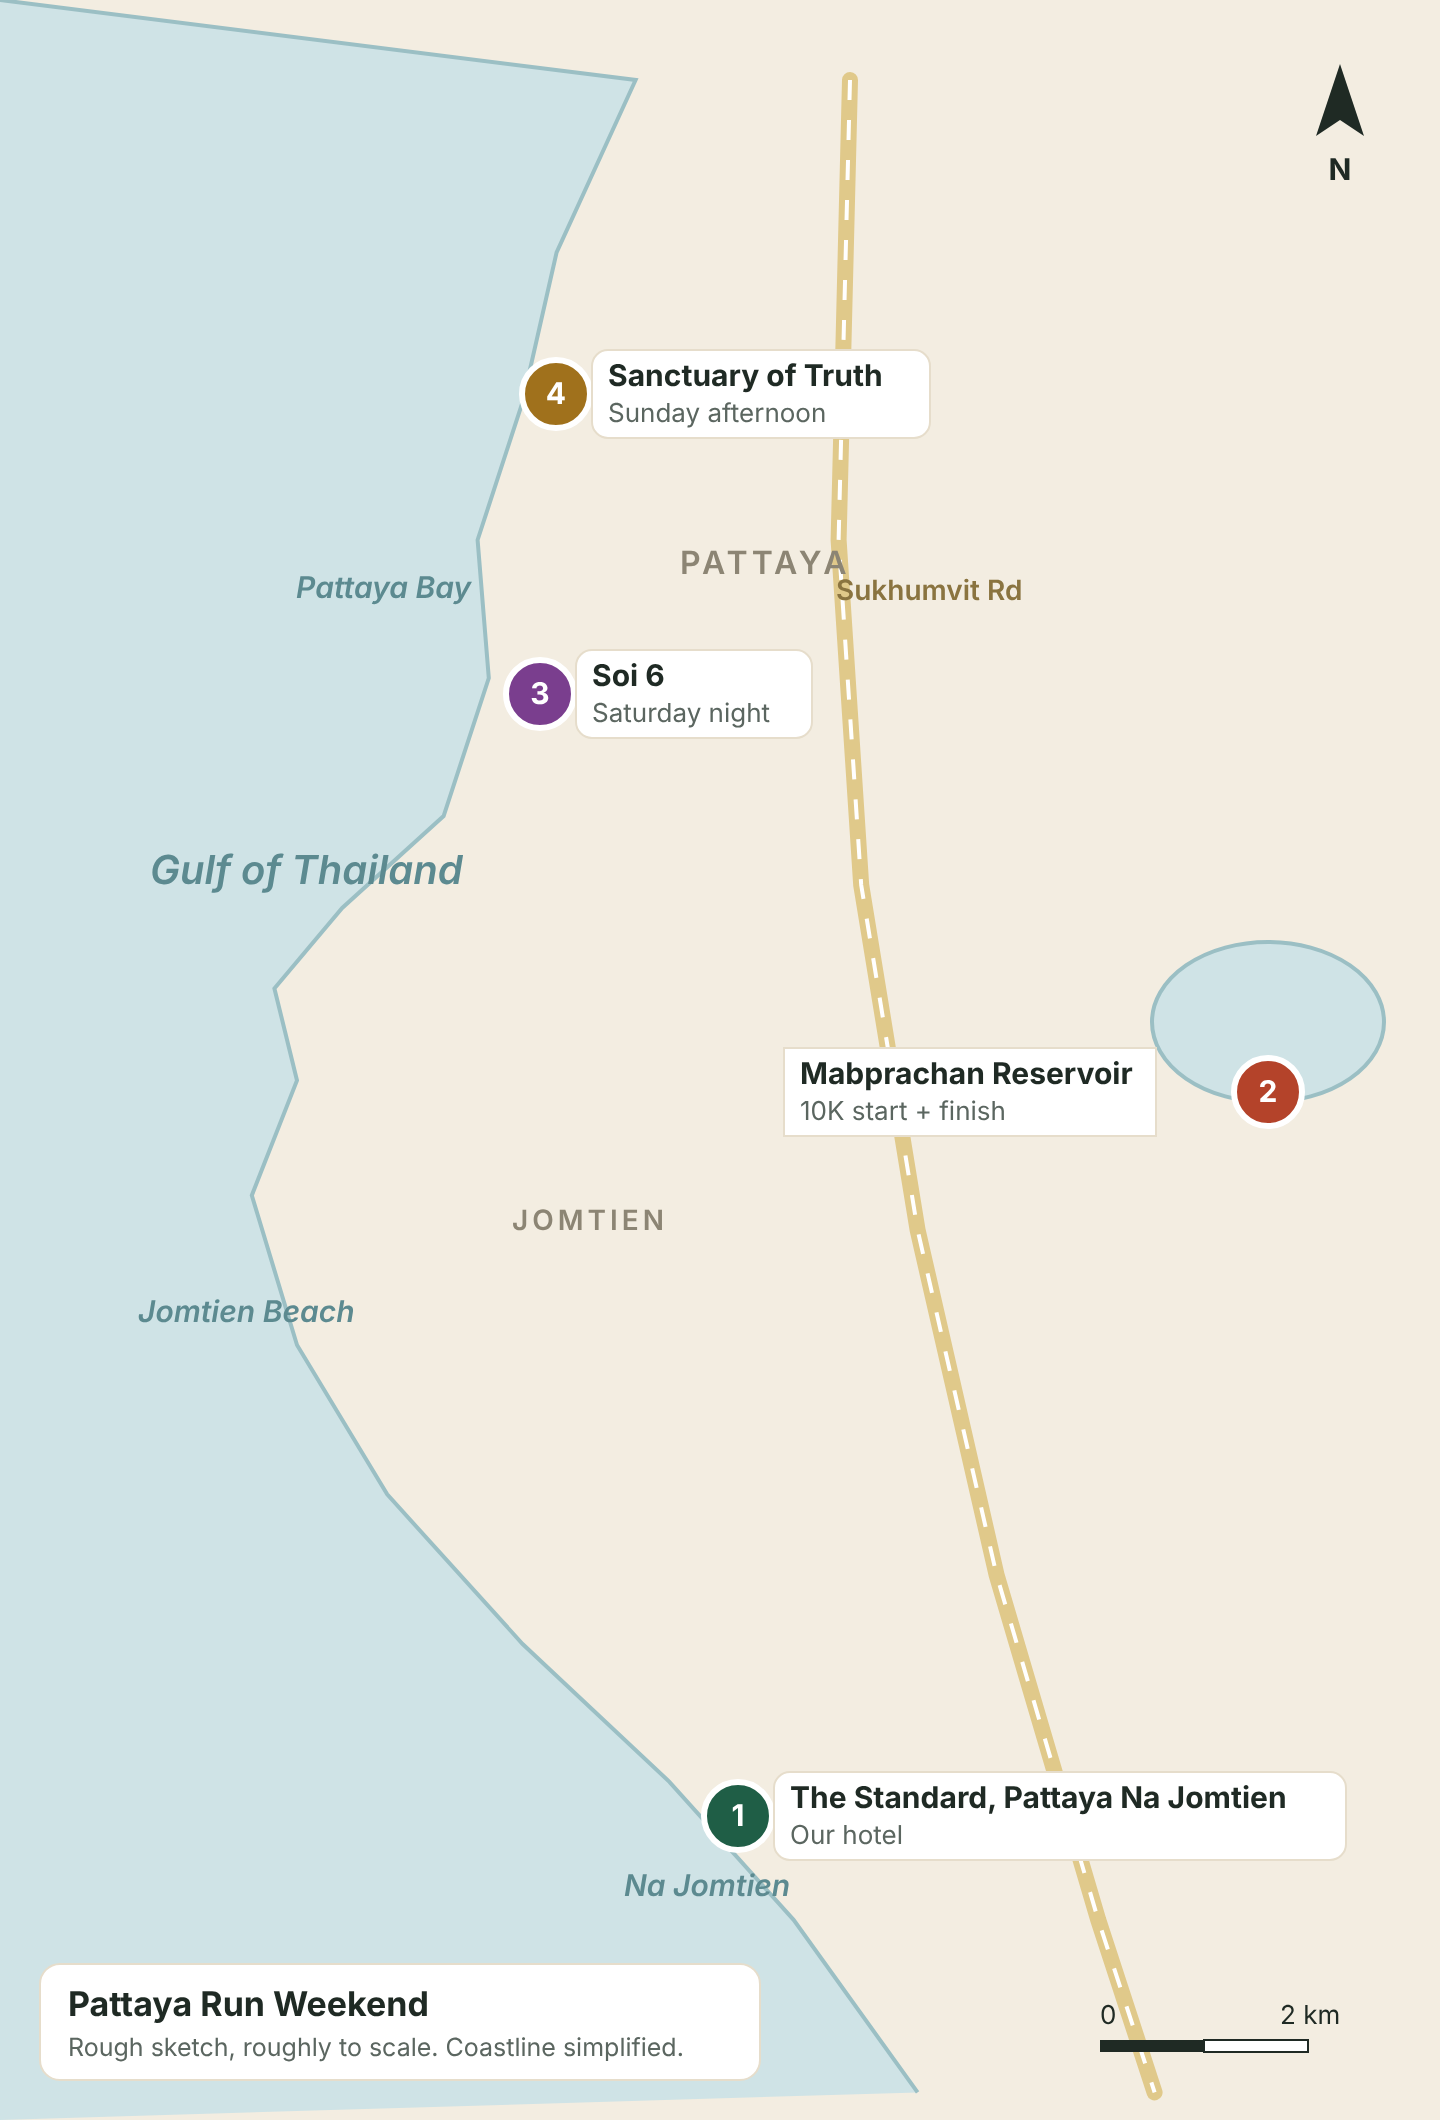
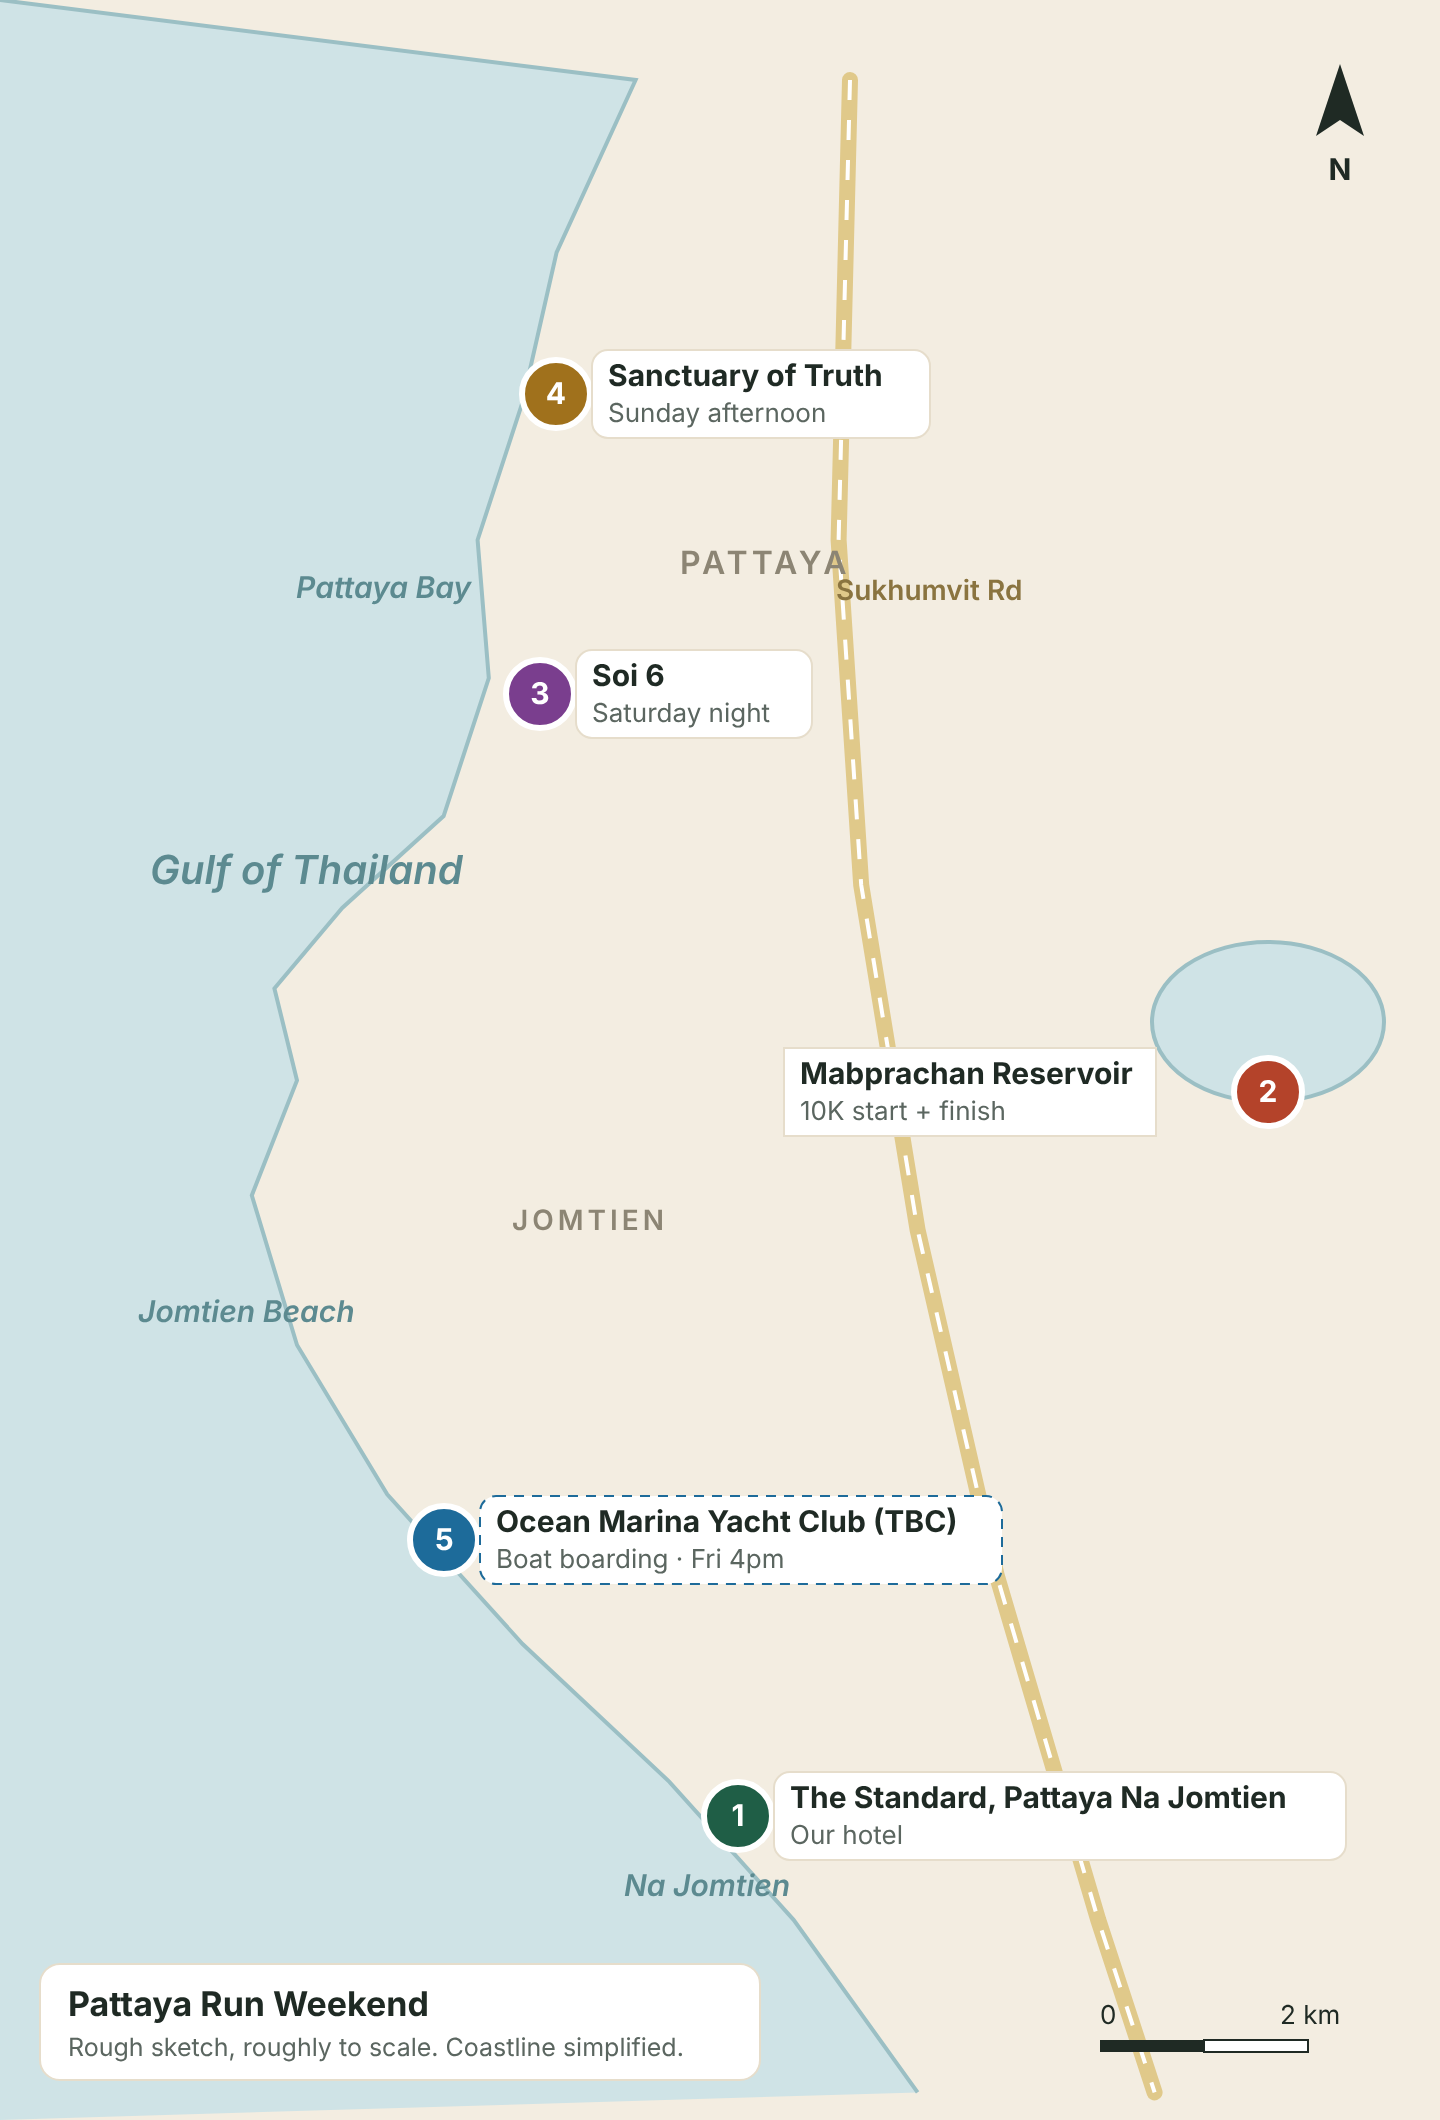
Add Ocean Marina (TBC) to maps and itinerary
Claude-Session: https://claude.ai/code/session_0165ETChs1MTygju7qLLkdZ2

Changed region(s): [[0.2812, 0.6849, 0.7188, 0.7472]]

diff --git a/public/index.html b/public/index.html
@@ -237,7 +237,7 @@ footer{padding:32px 0 56px;color:var(--muted);font-size:.85rem;border-top:1px so
         <div style="margin-top:10px">
           <div class="slot"><time>9:30am</time><span>Private vans leave Bangkok</span></div>
           <div class="slot"><time>12pm</time><span>Arrive at The Standard. Lunch by the pool</span></div>
-          <div class="slot"><time>4–8pm</time><span><strong>Private sunset cruise</strong> on the Heliotrope. Sunset is about 6:15pm</span></div>
+          <div class="slot"><time>4–8pm</time><span><strong>Private sunset cruise</strong> on the Heliotrope from Ocean Marina Yacht Club (TBC). Sunset is about 6:15pm</span></div>
           <div class="slot"><time>8:30pm</time><span>Dinner at Sereia, the hotel's Thai coastal restaurant</span></div>
         </div>
       </div>
@@ -278,7 +278,7 @@ footer{padding:32px 0 56px;color:var(--muted);font-size:.85rem;border-top:1px so
   <div class="wrap">
     <p class="eyebrow">Where everything is</p>
     <h2>Map</h2>
-    <div id="mapEl" role="region" aria-label="Map of the hotel, race start, Soi 6 and the Sanctuary of Truth" style="height:420px;border-radius:14px;border:1px solid var(--line);margin-top:22px;background:#e9e1cf"></div>
+    <div id="mapEl" role="region" aria-label="Map of the hotel, race start, Soi 6, the Sanctuary of Truth and Ocean Marina" style="height:420px;border-radius:14px;border:1px solid var(--line);margin-top:22px;background:#e9e1cf"></div>
     <div class="grid g2" style="margin-top:14px;gap:10px" id="placeList"></div>
   </div>
 </section>
@@ -727,7 +727,8 @@ footer{padding:32px 0 56px;color:var(--muted);font-size:.85rem;border-top:1px so
     {n:'The Standard, Pattaya Na Jomtien',d:'Our hotel · 8/12 Moo 2, Soi Na Jomtien 10',c:[12.849,100.905],col:'#1F5E46',q:'The Standard Pattaya Na Jomtien'},
     {n:'Mabprachan Reservoir Public Park',d:'10K start and finish · Sat 5:45pm',c:[12.918,100.952],col:'#B4432A',q:'Mabprachan Reservoir Pattaya'},
     {n:'Soi 6',d:'Saturday night · central Pattaya',c:[12.9466,100.8875],col:'#7A3E8E',q:'Soi 6 Pattaya'},
-    {n:'Sanctuary of Truth',d:'Sunday 2:30pm · on the way home',c:[12.9727,100.8890],col:'#A0711C',q:'Sanctuary of Truth Pattaya'}
+    {n:'Sanctuary of Truth',d:'Sunday 2:30pm · on the way home',c:[12.9727,100.8890],col:'#A0711C',q:'Sanctuary of Truth Pattaya'},
+    {n:'Ocean Marina Yacht Club (TBC)',d:'Boat boarding · Fri 4pm · to be confirmed',c:[12.873,100.879],col:'#1D6B9A',q:'Ocean Marina Yacht Club Pattaya'}
   ];
   var list=document.getElementById('placeList');
   places.forEach(function(p,i){
